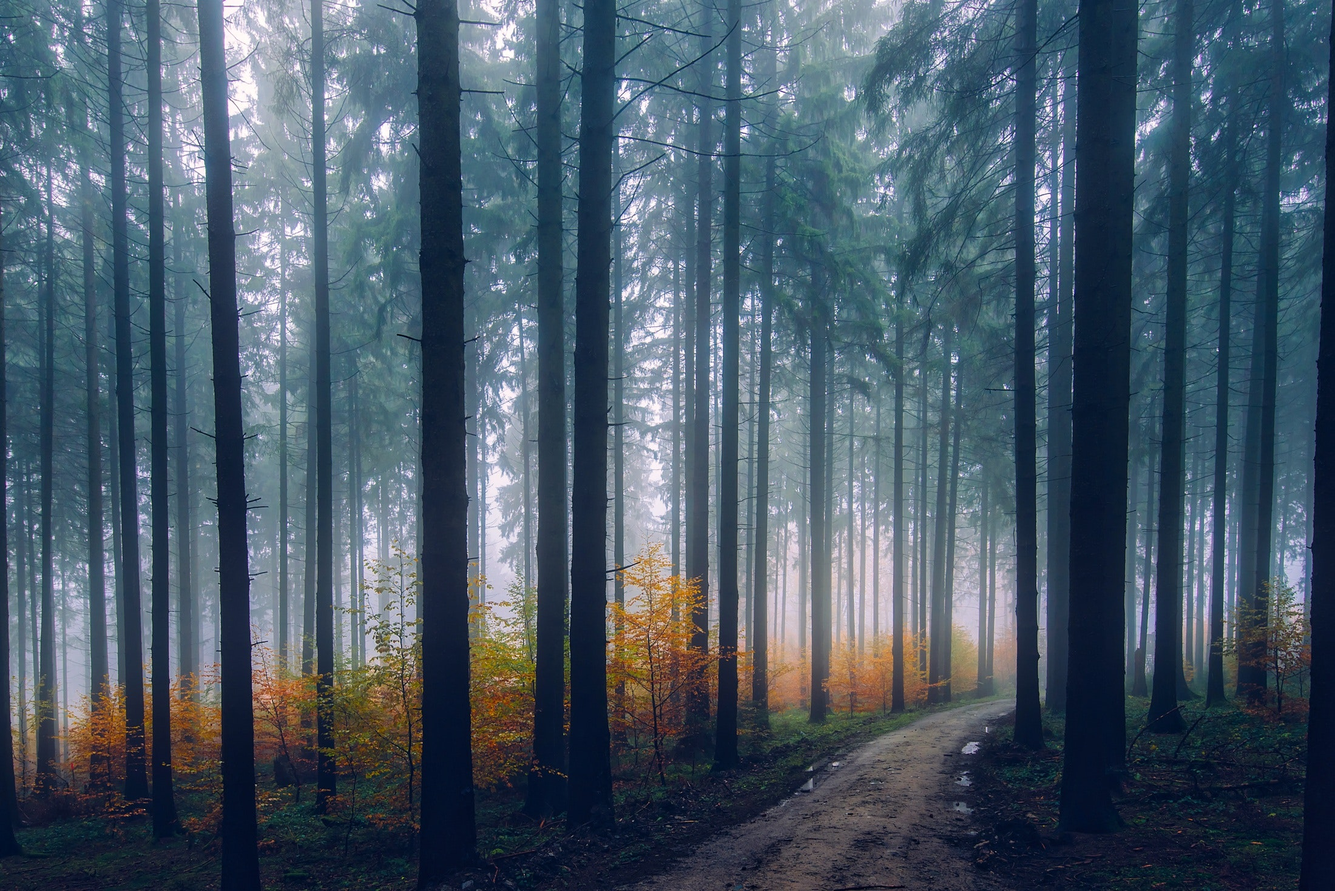
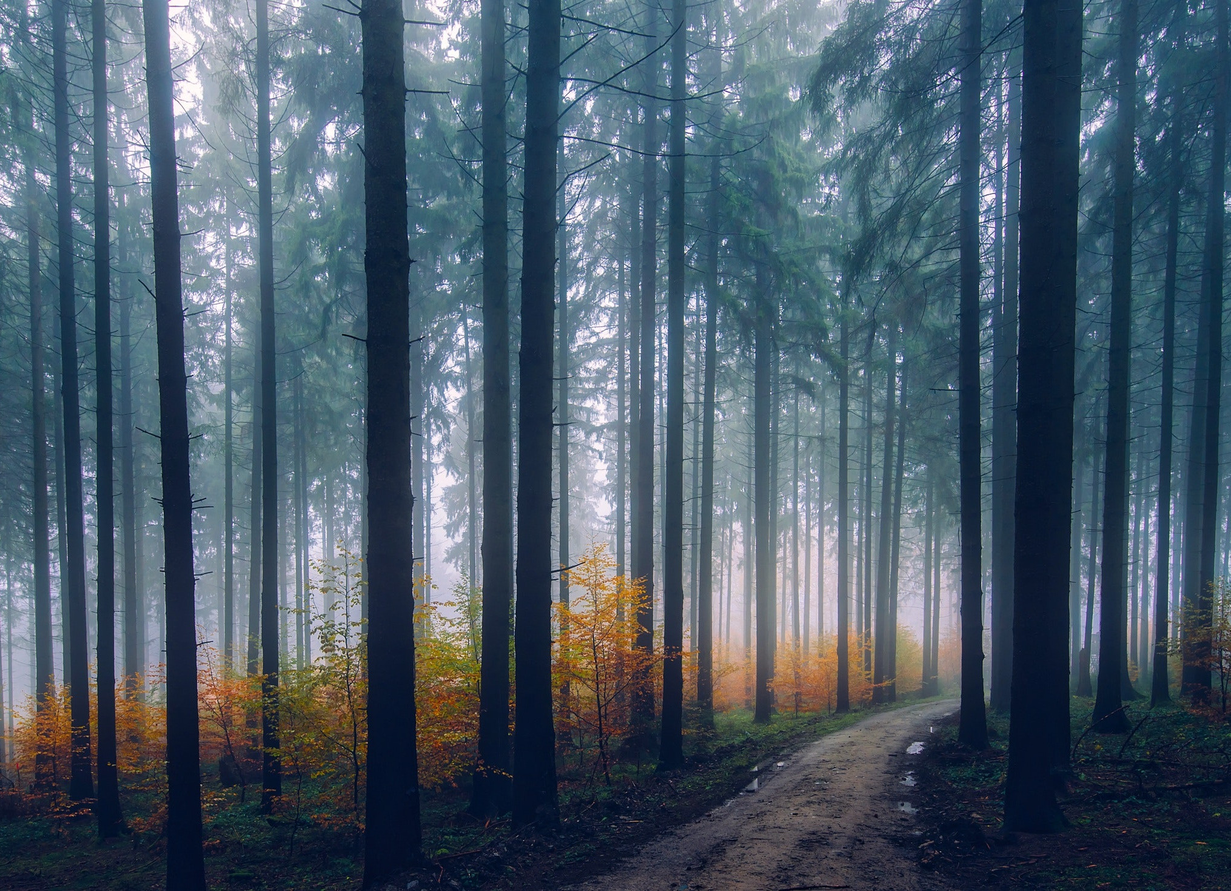
index grid image adjustments. flextocol style adjustments

diff --git a/index.html b/index.html
@@ -109,11 +109,38 @@
 			
 		</div>
 		
-		<!-- 
-		<div class="center">
-			<p>This is a site that I started to test out personal projects that I create as I learn about CSS and Javascript.  Most projects are very much in progress.
-			</p>
-		</div> -->
+		
+
+		<div class="flexToCol">
+			<p>Lorem ipsum dolor sit amet, consectetur adipiscing elit, sed do eiusmod tempor incididunt 
+			ut labore et dolore magna aliqua. Ut enim ad minim veniam, quis nostrud exercitation ullamco 
+			laboris nisi ut aliquip ex ea commodo consequat. Duis aute irure dolor in reprehenderit in 
+			voluptate velit esse cillum dolore eu fugiat nulla pariatur. Excepteur sint occaecat cupidatat 
+			non proident, sunt in culpa qui officia deserunt mollit anim id est laborum. Lorem ipsum dolor sit amet, 
+			consectetur adipiscing elit, sed do eiusmod tempor incididunt ut labore et dolore magna aliqua. 
+			Lorem ipsum dolor sit amet, consectetur adipiscing elit, sed do eiusmod tempor incididunt 
+			ut labore et dolore magna aliqua. Ut enim ad minim veniam, quis nostrud exercitation ullamco 
+			laboris nisi ut aliquip ex ea commodo consequat. Duis aute irure dolor in reprehenderit in 
+			voluptate velit esse cillum dolore eu fugiat nulla pariatur. Excepteur sint occaecat cupidatat 
+			non proident, sunt in culpa qui officia deserunt mollit anim id est laborum. Lorem ipsum dolor sit amet, 
+			consectetur adipiscing elit, sed do eiusmod tempor incididunt ut labore et dolore magna aliqua.
+		</p>
+
+			<p>Lorem ipsum dolor sit amet, consectetur adipiscing elit, sed do eiusmod tempor incididunt 
+			ut labore et dolore magna aliqua. Ut enim ad minim veniam, quis nostrud exercitation ullamco 
+			laboris nisi ut aliquip ex ea commodo consequat. Duis aute irure dolor in reprehenderit in 
+			voluptate velit esse cillum dolore eu fugiat nulla pariatur. Excepteur sint occaecat cupidatat 
+			non proident, sunt in culpa qui officia deserunt mollit anim id est laborum. Lorem ipsum dolor sit amet, 
+			consectetur adipiscing elit, sed do eiusmod tempor incididunt ut labore et dolore magna aliqua. Ut enim ad minim veniam, quis nostrud exercitation ullamco laboris nisi ut aliquip ex ea commodo consequat. 
+			Lorem ipsum dolor sit amet, consectetur adipiscing elit, sed do eiusmod tempor incididunt 
+			ut labore et dolore magna aliqua. Ut enim ad minim veniam, quis nostrud exercitation ullamco 
+			laboris nisi ut aliquip ex ea commodo consequat. Duis aute irure dolor in reprehenderit in 
+			voluptate velit esse cillum dolore eu fugiat nulla pariatur. Excepteur sint occaecat cupidatat 
+			non proident, sunt in culpa qui officia deserunt mollit anim id est laborum. Lorem ipsum dolor sit amet, 
+			consectetur adipiscing elit, sed do eiusmod tempor incididunt ut labore et dolore magna aliqua.
+		</p>
+		</div>
+		
 		
 
 	</div>	<!-- content -->

diff --git a/scripts_CSS_ind/main.css b/scripts_CSS_ind/main.css
@@ -30,51 +30,32 @@ div.center {
   line-height: 1.6;
 }
 
-section {
-  display: -webkit-box;
-  display: -ms-flexbox;
-  display: flex;
-  -ms-flex-pack: distribute;
-      justify-content: space-around;
-  margin: 2em auto;
-  width: 90%;
+.flexToCol {    
+	display: flex;
+	justify-content: space-between;
+	margin: 1em auto;
+	width: 95%;
 }
-
-.columns {
-  -webkit-box-pack: justify;
-      -ms-flex-pack: justify;
-          justify-content: space-between;
-}
-
-.rows {
-  -webkit-box-orient: vertical;
-  -webkit-box-direction: normal;
-      -ms-flex-direction: column;
-          flex-direction: column;
-}
-
-.flex3 {
-  width: 31%;
-  padding: 1%;
-  background-color: #e8e8f0;
+.flexToCol > p {
+  flex: 50%;
+  padding: 1em;
+  background-color: #d0d0d8;
   color: #002;
   border-radius: 5px;
+  text-align: justify;
+  margin: 1em;
 }
-
+  
 @media only screen and (max-width: 650px) {
-  .columns {
-    -webkit-box-orient: vertical;
-    -webkit-box-direction: normal;
-        -ms-flex-direction: column;
-            flex-direction: column;
-  }
-  .flex3 {
-    width: 100%;
-    margin: 1% auto;
-  }
-  h2 {
-    font-size: 22px;
-  }
+	.flexToCol {
+		-webkit-box-orient: vertical;
+		-webkit-box-direction: normal;
+			-ms-flex-direction: column;
+				flex-direction: column;
+	}
+	h2 {
+		font-size: 22px;
+	}
 }
 
 .radioSelect {
@@ -139,8 +120,8 @@ canvas {
 
 #pageContent {
   width: 90vw;
-  min-width: calc(0.9 * 600px);
-  max-width: calc(0.9 * 1400px);
+  min-width: 600px;
+  max-width: 1400px;
   min-height: calc(100vh - 50px);
   background-image: -webkit-gradient(linear, left top, left bottom, from(#c8c8d4), to(#99a));
   background-image: linear-gradient(180deg, #c8c8d4, #99a);
@@ -175,7 +156,7 @@ footer img {
 footer ul {
   width: 85vw;
   min-width: calc(0.85 * 600px);
-  max-width: calc(0.85 * 1400px);
+  max-width: calc(0.85 * 1400px); 
   height: 65%;
   display: -webkit-box;
   display: -ms-flexbox;
@@ -283,8 +264,8 @@ nav {
 
 .navContentContainer {
   width: 90vw;
-  min-width: calc(0.9 * 600px);
-  max-width: calc(0.9 * 1400px);
+  min-width: 600px;
+  max-width: 1400px;
   position: relative;
   height: 100%;
   margin: auto;
@@ -446,4 +427,3 @@ nav {
           transform: rotate(45deg) translate(-5px, -5px);
   background-color: #c8fff0;
 }
-/*# sourceMappingURL=main.css.map */

diff --git a/scripts_CSS_ind/gridMain.css b/scripts_CSS_ind/gridMain.css
@@ -1,14 +1,15 @@
 .gridMain {
     background-color: #778; 
     margin: auto;
-    padding: 1.25vw;
+    padding: 1em;
     display: grid;
     grid-template-columns: repeat(8, 1fr);
     grid-template-rows: repeat(8, 1fr);
-    grid-gap: 1vw;
+    grid-gap: 1em;
     width: 100%;
+    min-width: 600px;
     height: calc(100vh - 100px); /*100px = navH+footerH*/
-    min-height: 600px;
+    min-height: 500px;
     grid-template-areas: 
         "b b b b a a a a"
         "b b b b a a a a"
@@ -29,29 +30,28 @@
     box-shadow: 1px 1px 3px 2px rgba(0,0,10,0.15);
     transition: opacity 3s ease, box-shadow 3s ease;
 }
-.BG1bottomAlt {
-    background-attachment: scroll;
-}
+
 
 .BG2top {  /* top/bottom refers to position.  div 2 is inside of (stacked on) div 1 */
     background-position: center top;
     background-image: url("../images/negSpaceImages/pexels-photo-41102skitterphoto.jpeg");
 } 
 .BG1bottom { 
-    background-position: center bottom;
-    background-image: url("../images/negSpaceImages/pexels-photo-1597662chuanyu.jpeg");
+    background-position: center top; 
+    background-image: url("../images/negSpaceImages/pexels-photo-1597662chuanyu1400.jpeg");
 } 
 .BG1top {
     background-position: center top;
     background-image: url("../images/negSpaceImages/pexels-photo-235621pixabay.jpeg"); 
 } 
 .BG2bottom {
-    background-position: center bottom;
+    background-position: center bottom; 
     background-image: url("../images/negSpaceImages/trees-in-forest-during-sunset-247421.jpg"); 
 }
 .BG1bottomAlt {
-    background-size: 600px;
-    background-position: right bottom;
+    background-attachment: scroll;
+    background-size: 700px;
+    background-position: center bottom; 
     background-image: url("../images/negSpaceImages/pexels-photo-262713pixabay.jpeg"); 
 }
 
@@ -106,6 +106,7 @@
 }
 
 ._x {
+    margin: 0.5em;
     border-radius: 5%  10%  5% / 20%;
     background-color: rgba(0,0,5,0.1);
     border: 0.8vw solid #ccd;
@@ -121,7 +122,7 @@
     color: #bbc;
 }
 ._y, ._z {
-    margin: 0 1em;
+    margin: 0.5em 3em;
     border-radius: 2.5% 5%  / 35%;
 }
 ._y {

diff --git a/gridRadio.html b/gridRadio.html
@@ -106,23 +106,23 @@
 
 		<br />
 		<h2>Lorem ipsum dolor sit amet</h2>
-		<section class="columns">
-			<p class="flex3">Lorem ipsum dolor sit amet, consectetur adipiscing elit, sed do eiusmod tempor incididunt 
+		<div class="flexToCol">
+			<p>Lorem ipsum dolor sit amet, consectetur adipiscing elit, sed do eiusmod tempor incididunt 
 			ut labore et dolore magna aliqua. Ut enim ad minim veniam, quis nostrud exercitation ullamco 
 			laboris nisi ut aliquip ex ea commodo consequat. Duis aute irure dolor in reprehenderit in 
 			voluptate velit esse cillum dolore eu fugiat nulla pariatur. Excepteur sint occaecat cupidatat 
 			non proident, sunt in culpa qui officia deserunt mollit anim id est laborum. Lorem ipsum dolor sit amet, 
 			consectetur adipiscing elit, sed do eiusmod tempor incididunt ut labore et dolore magna aliqua. </p>
-			<p class="flex3">Lorem ipsum dolor sit amet, consectetur adipiscing elit, sed do eiusmod tempor incididunt 
+			<p>Lorem ipsum dolor sit amet, consectetur adipiscing elit, sed do eiusmod tempor incididunt 
 			ut labore et dolore magna aliqua. Ut enim ad minim veniam, quis nostrud exercitation ullamco 
 			laboris nisi ut aliquip ex ea commodo consequat. Duis aute irure dolor in reprehenderit in 
 			voluptate velit esse cillum dolore eu fugiat nulla pariatur.</p>
-			<p class="flex3">Lorem ipsum dolor sit amet, consectetur adipiscing elit, sed do eiusmod tempor incididunt 
+			<p>Lorem ipsum dolor sit amet, consectetur adipiscing elit, sed do eiusmod tempor incididunt 
 			ut labore et dolore magna aliqua. Ut enim ad minim veniam, quis nostrud exercitation ullamco 
 			laboris nisi ut aliquip ex ea commodo consequat. Duis aute irure dolor in reprehenderit in 
 			voluptate velit esse cillum dolore eu fugiat nulla pariatur. Excepteur sint occaecat cupidatat 
 			non proident, sunt in culpa qui officia deserunt mollit anim id est laborum. </p>
-		</section>
+			</div>
 
 	</div>	<!-- content -->
 	
